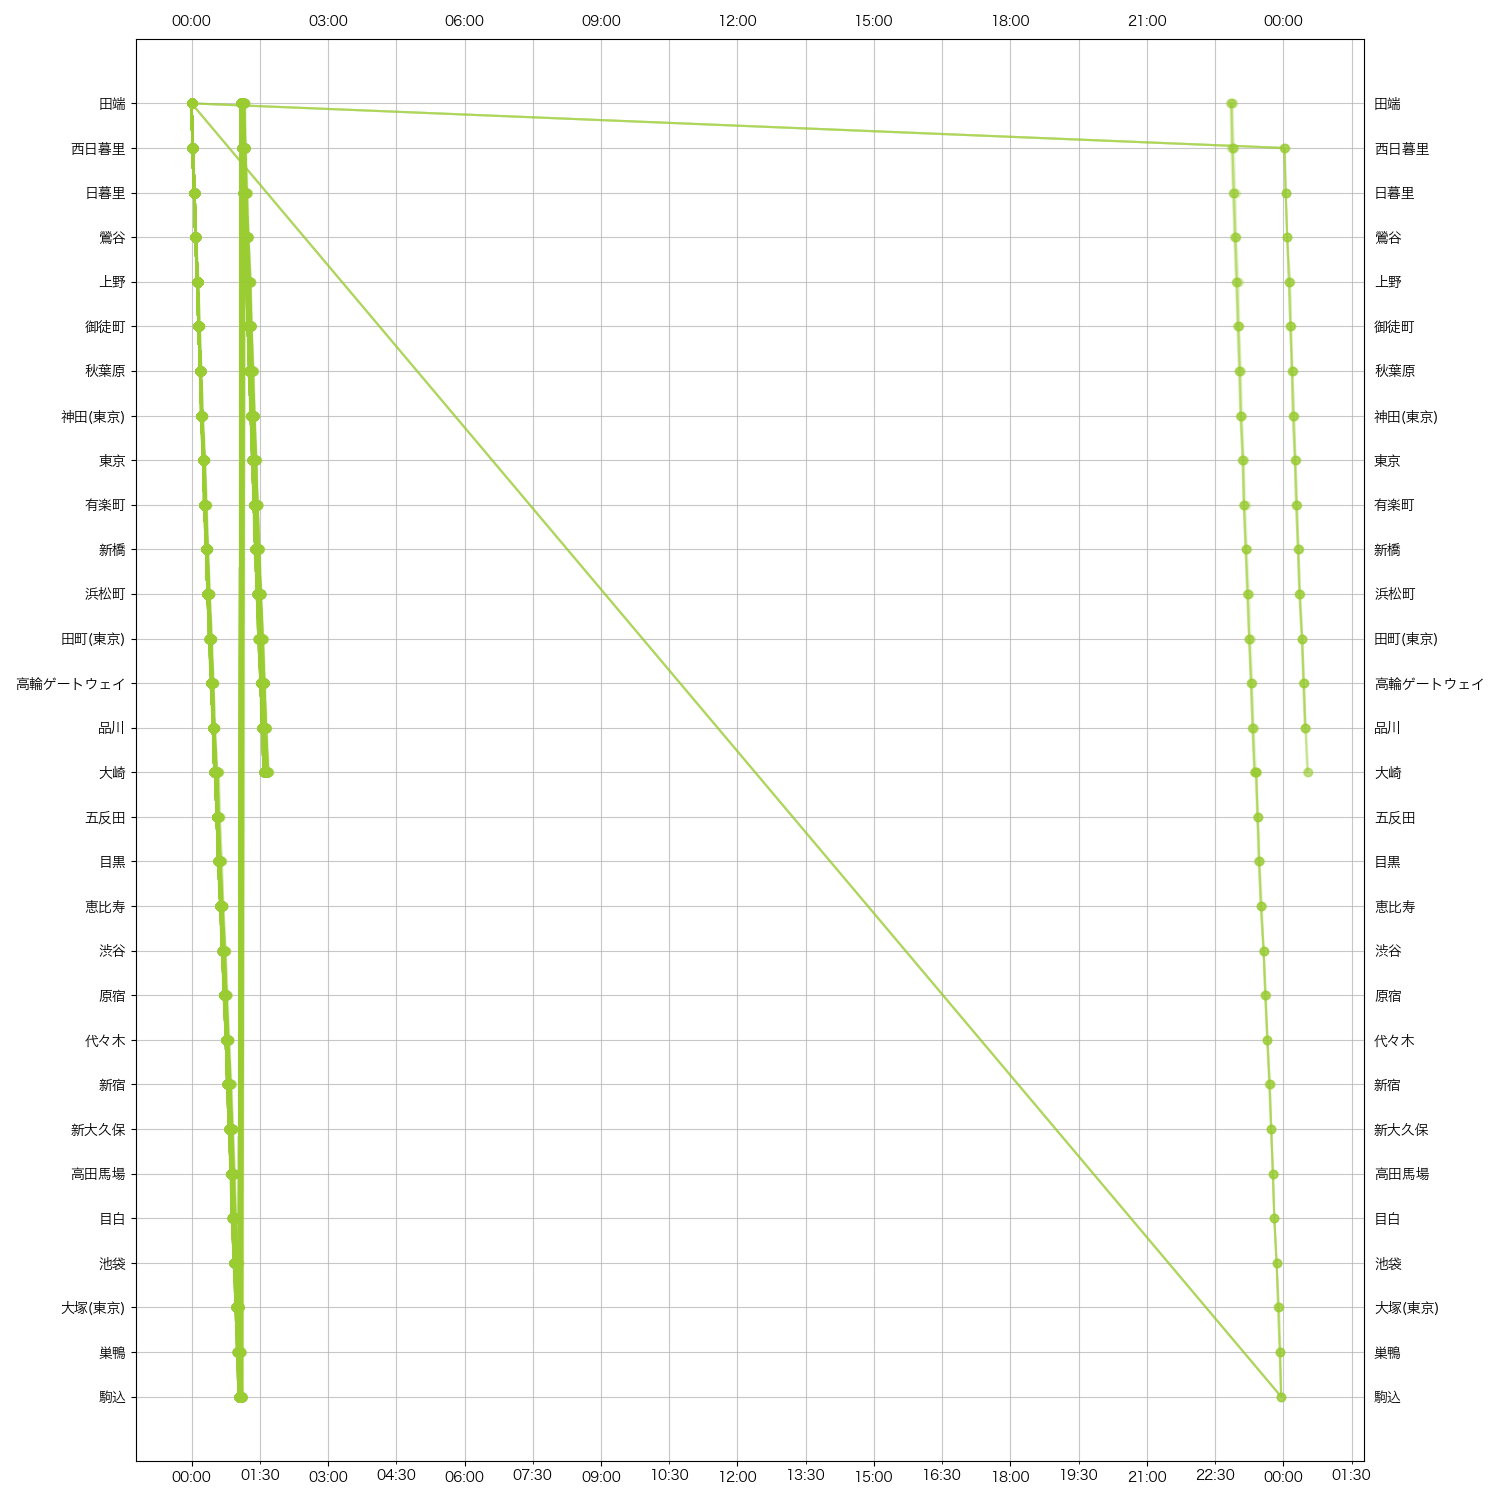
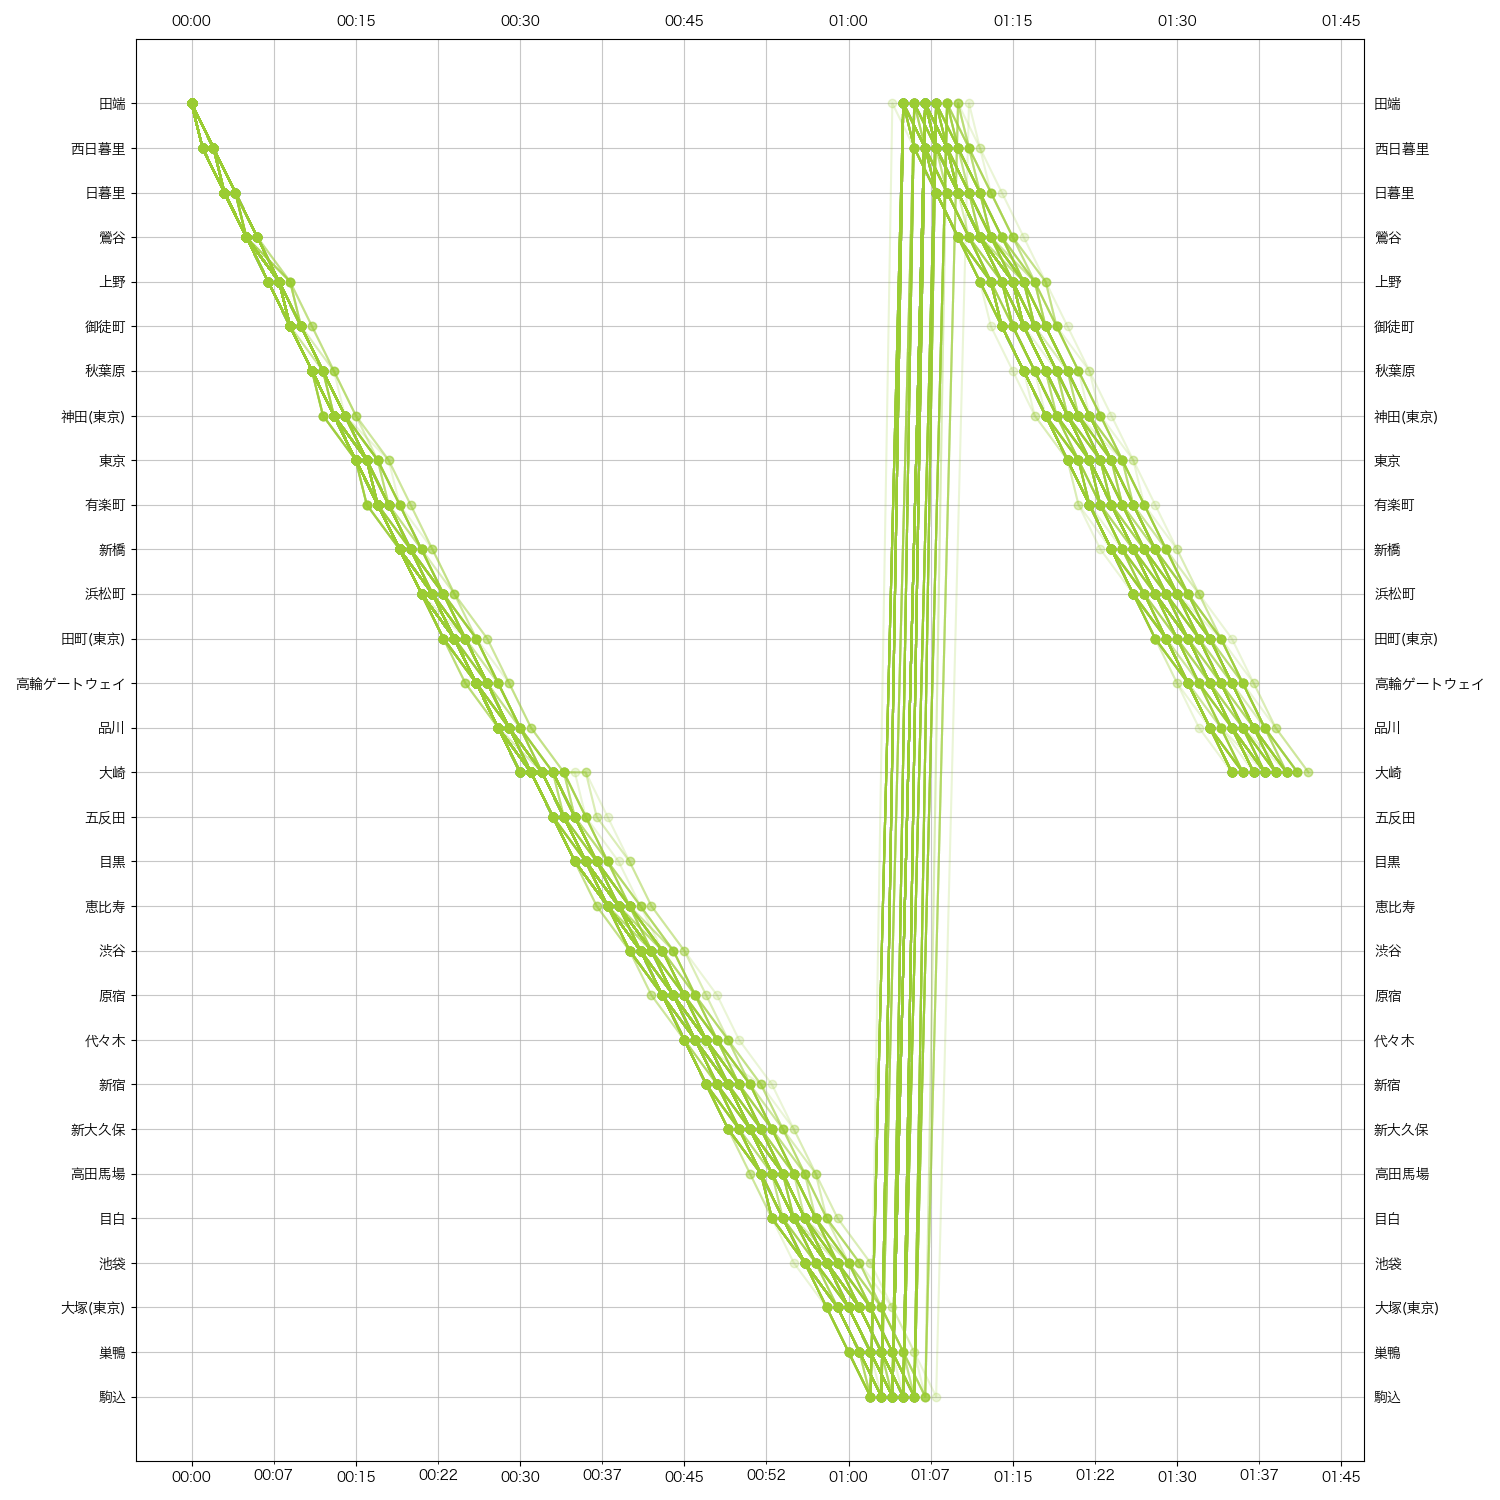
Fix past-midnight times

diff --git a/prepare_plot.py b/prepare_plot.py
@@ -24,13 +24,7 @@ def prepare_normal(line_name):
     df.sort_values(['Train', 'index'], inplace=True)
 
     fix_next_days(df, 'Arrive')
-
-    # Move the midnight train to the right (pretend it's a day later)
-    train = df.sort_values('Arrive').iloc[0].Train
-    start = df[df.Train == train].iloc[0].name
-    end = df[df.Train == train].iloc[-1].name
-    df.loc[start:end, 'Arrive'] += timedelta(days=1)
-    df.loc[start:end, 'Depart'] += timedelta(days=1)
+    fix_next_days(df, 'Depart')
 
     # Fill NaT in Arrive with Depart
     # Only the first station has NaT for Arrive
@@ -42,14 +36,20 @@ def prepare_normal(line_name):
     return df
 
 def fix_next_days(df, col):
+    midnight = pd.Timestamp.today().replace(
+        hour=0, minute=0, second=0, microsecond=0, nanosecond=0
+    )
+    three_am = pd.Timestamp.today().replace(
+        hour=3, minute=0, second=0, microsecond=0, nanosecond=0
+    )
     for train in df.Train.unique():
-        xs = df[df.Train == train].Arrive
-        if not xs.dropna().is_monotonic:
-            xx = find_next_day(xs.dropna())
-            pos = xs[xs == xx].index[0]
-            df.loc[pos : xs.index[-1], col] = (
-                df.loc[pos : xs.index[-1], col] + timedelta(days=1)
-            )
+        xs = df[df.Train == train][col]
+        xs_dropped = xs.dropna()
+        to_change = (midnight <= xs_dropped) & (xs_dropped < three_am)
+        new = xs_dropped[to_change].apply(lambda x: x + timedelta(days=1))
+        if new.shape[0] == 0:
+            continue
+        df.loc[new.index[0] : new.index[-1], col] = new
 
 def find_next_day(xs: '[a]') -> 'a':
     '''uses binary search to find the point where the next day has started'''

diff --git a/plot.py b/plot.py
@@ -50,7 +50,8 @@ def bokeh(
     df: 'pd.DataFrame', line_name: str, plot_name: str, alpha: float,
     color: str, line: bool,
 ):
-    from bokeh.plotting import figure, show, ColumnDataSource, save
+    import numpy as np
+    from bokeh.plotting import figure, ColumnDataSource, save
     from bokeh.io import output_file
 
     outfile = Constants.plot_dir / f'{line_name}_{plot_name}.html'
@@ -62,7 +63,7 @@ def bokeh(
 
     source = ColumnDataSource(data=df)
     p1 = figure(
-        x_axis_type='datetime', y_range=df.Station.unique(),
+        x_axis_type='datetime', y_range=np.flip(df.Station.unique()),
         tools='hover,pan,wheel_zoom,box_zoom,reset',
         tooltips=[
             ("index", "$index"),
